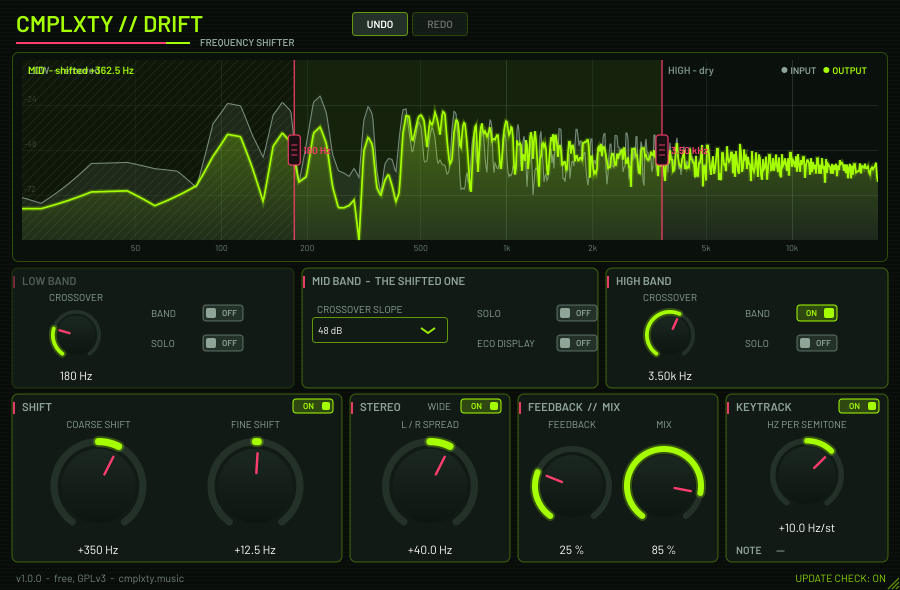
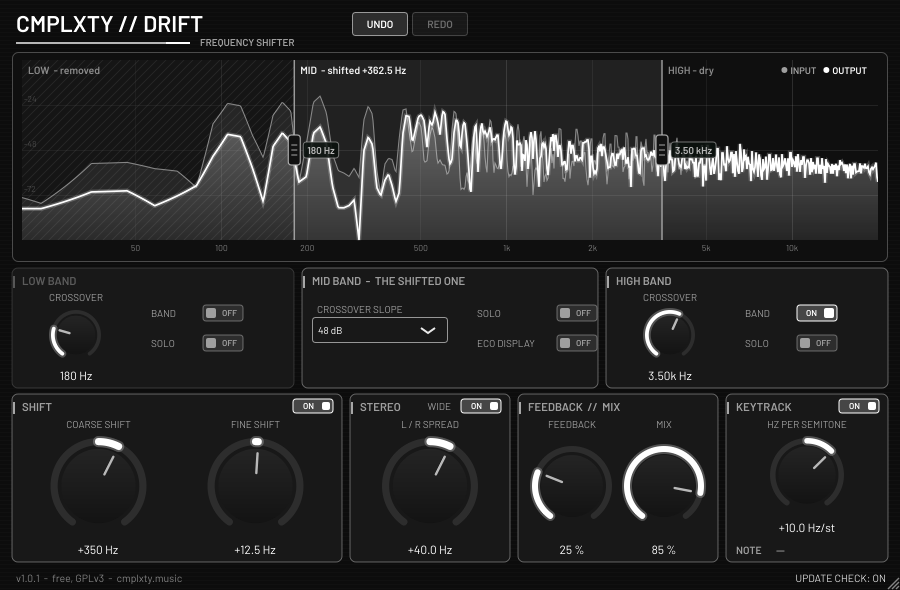
Drift 1.0.1: monochrome UI and spectrum; update check reads version.json's mac block on macOS

diff --git a/drift-shifter/src/PluginEditor.cpp b/drift-shifter/src/PluginEditor.cpp
@@ -3,7 +3,7 @@
 
 namespace
 {
-const juce::Colour kBg (0xff080d0a), kPanel (0xff111a15), kPri (0xffa6ff00), kSec (0xffff3d6e), kDim (0xff8ea597), kTrack (0xff233128);
+const juce::Colour kBg (0xff0c0c0c), kPanel (0xff181818), kPri (0xffffffff), kSec (0xffb8b8b8), kDim (0xff9f9f9f), kTrack (0xff2d2d2d);
 constexpr int kFooterH = 22;
 
 using dfui::uiFont;
@@ -98,7 +98,7 @@ void PopupOverlay::paint (juce::Graphics& g)
 {
     if (! open) return;
     g.setColour (juce::Colours::black.withAlpha (0.35f)); g.fillRoundedRectangle (panel.translated (2, 3).toFloat(), 6.0f);
-    g.setColour (juce::Colour (0xff17231c)); g.fillRoundedRectangle (panel.toFloat(), 6.0f);
+    g.setColour (juce::Colour (0xff202020)); g.fillRoundedRectangle (panel.toFloat(), 6.0f);
     g.setColour (kPri.withAlpha (0.7f)); g.drawRoundedRectangle (panel.toFloat().reduced (0.5f), 6.0f, 1.0f);
     const auto f = uiFont (13.0f);
     for (int i = 0; i < (int) items.size(); ++i)
@@ -169,7 +169,7 @@ void UpdateBanner::show (const df::upd::Info& i)
 void UpdateBanner::paint (juce::Graphics& g)
 {
     auto r = getLocalBounds().toFloat();
-    g.setColour (juce::Colour (0xff17231c)); g.fillRoundedRectangle (r, 6.0f);
+    g.setColour (juce::Colour (0xff202020)); g.fillRoundedRectangle (r, 6.0f);
     g.setColour (kSec.withAlpha (0.85f)); g.drawRoundedRectangle (r.reduced (0.5f), 6.0f, 1.0f);
     g.setColour (kSec); g.fillEllipse (10.0f, r.getCentreY() - 3.0f, 6.0f, 6.0f);
     g.setColour (juce::Colours::white); g.setFont (uiFont (12.0f, true));
@@ -226,7 +226,7 @@ void DriftPanel::Look::drawRotarySlider (juce::Graphics& g, int x, int y, int w,
     const float ring = juce::jmax (3.0f, d * 0.075f), rr = r - ring * 0.5f;
     const float ang = a0 + pos * (a1 - a0);
     // knob body
-    g.setGradientFill (juce::ColourGradient (juce::Colour (0xff1d2b23), c.x, c.y - r, juce::Colour (0xff0c130f), c.x, c.y + r, false));
+    g.setGradientFill (juce::ColourGradient (juce::Colour (0xff272727), c.x, c.y - r, juce::Colour (0xff111111), c.x, c.y + r, false));
     g.fillEllipse (c.x - rr + ring, c.y - rr + ring, (rr - ring) * 2.0f, (rr - ring) * 2.0f);
     // track
     juce::Path track; track.addCentredArc (c.x, c.y, rr, rr, 0.0f, a0, a1, true);
@@ -358,7 +358,7 @@ void SpectrumView::mouseDoubleClick (const juce::MouseEvent& e)
 void SpectrumView::paint (juce::Graphics& g)
 {
     const auto r = getLocalBounds().toFloat();
-    g.setColour (juce::Colour (0xff0a110d)); g.fillRoundedRectangle (r, 6.0f);
+    g.setColour (juce::Colour (0xff0f0f0f)); g.fillRoundedRectangle (r, 6.0f);
     const auto plot = plotArea();
     auto yOf = [&] (float db) { return plot.getBottom() - plot.getHeight() * juce::jlimit (0.0f, 1.0f, (db - kDbBottom) / -kDbBottom); };
 
@@ -447,7 +447,7 @@ void SpectrumView::paint (juce::Graphics& g)
         const bool active = hot == i || drag == i;
         g.setColour (kSec.withAlpha (active ? 1.0f : 0.8f)); g.fillRect (x - 0.75f, plot.getY(), 1.5f, plot.getHeight());
         const auto grip = juce::Rectangle<float> (x - 6.0f, plot.getCentreY() - 15.0f, 12.0f, 30.0f);
-        g.setColour (juce::Colour (0xff1a0f13)); g.fillRoundedRectangle (grip, 3.0f);
+        g.setColour (juce::Colour (0xff121212)); g.fillRoundedRectangle (grip, 3.0f);
         g.setColour (kSec.withAlpha (active ? 1.0f : 0.9f)); g.drawRoundedRectangle (grip, 3.0f, active ? 1.8f : 1.2f);
         for (int k = -1; k <= 1; ++k) g.fillRect (x - 3.0f, grip.getCentreY() + (float) k * 5.0f - 0.5f, 6.0f, 1.0f);
         const float hz = i == 0 ? xoL : xoH;

diff --git a/drift-shifter/test/update_test.cpp b/drift-shifter/test/update_test.cpp
@@ -29,6 +29,17 @@ static void offline()
     // ---- version.json
     Info i;
     const juce::String good = R"j({"version":"1.0.2","url":"https://cmplxty.music/plugins/drift-shifter/","installer":"https://cmplxty.music/plugins/drift-shifter/CMPLXTY-Drift-Setup-1.0.0-win.exe","notes":"Gender fix"})j";
+    { // "mac" block: used only when useMacBlock() (true on macOS), falls back to top level
+        const char* mj = R"j({"version":"1.0.5","url":"https://cmplxty.music/a.exe","mac":{"version":"1.0.6","url":"https://cmplxty.music/a.pkg","installer":"a.pkg","sha256":"00","size":1,"notes":"m"}})j";
+        Info mi; useMacBlock() = false;
+        CHECK (parseInfo (mj, mi) && mi.version == "1.0.5" && mi.url.endsWith (".exe"));
+        useMacBlock() = true;
+        CHECK (parseInfo (mj, mi) && mi.version == "1.0.6" && mi.url.endsWith (".pkg") && mi.installer == "a.pkg" && mi.notes == "m");
+        CHECK (parseInfo (R"j({"version":"1.0.5","url":"https://cmplxty.music/a.exe"})j", mi) && mi.version == "1.0.5");
+        CHECK (parseInfo (R"j({"version":"1.0.5","url":"https://cmplxty.music/a.exe","mac":{"version":""}})j", mi) && mi.version == "1.0.5");
+        CHECK (! parseInfo (R"j({"version":"1.0.5","url":"https://cmplxty.music/a.exe","mac":{"version":"1.0.6","url":"https://evil.example/a.pkg"}})j", mi));
+        useMacBlock() = false;
+    }
     CHECK (parseInfo (good, i) && i.version == "1.0.2" && i.url == "https://cmplxty.music/plugins/drift-shifter/" && i.installer.endsWith ("CMPLXTY-Drift-Setup-1.0.0-win.exe") && i.notes == "Gender fix");
     CHECK (parseInfo (R"j({"version":"1.0.2","url":"https://cmplxty.music/plugins/drift-shifter/"})j", i) && i.installer.isEmpty() && i.notes.isEmpty());
     // the shape the listing publishes: url = direct installer URL, "Update" opens its folder page

diff --git a/drift-shifter/src/UpdateCheck.h b/drift-shifter/src/UpdateCheck.h
@@ -65,15 +65,36 @@ inline juce::String pageForUrl (const juce::String& url)
     return url;
 }
 
+// true on macOS; tests can flip it to exercise the "mac" block on other platforms
+inline bool& useMacBlock()
+{
+   #if JUCE_MAC
+    static bool b = true;
+   #else
+    static bool b = false;
+   #endif
+    return b;
+}
+
 inline bool parseInfo (const juce::String& text, Info& out, bool requireTrustedUrl = true)
 {
     juce::var v;
     if (text.length() > kMaxBytes || ! juce::JSON::parse (text, v).wasOk() || ! v.isObject()) return false;
+    // On macOS a "mac" block { version, url, installer, sha256, size, notes } wins when it has a version and url;
+    // otherwise (and on Windows/Linux) the top-level fields are used.
+    juce::var src = v;
+    if (useMacBlock())
+    {
+        const auto m = v.getProperty ("mac", {});
+        if (m.isObject() && m.getProperty ("version", {}).toString().trim().isNotEmpty()
+                         && m.getProperty ("url", {}).toString().trim().isNotEmpty())
+            src = m;
+    }
     Info i;
-    i.version = v.getProperty ("version", {}).toString().trim();
-    i.url = v.getProperty ("url", {}).toString().trim();
-    i.installer = v.getProperty ("installer", {}).toString().trim();
-    i.notes = v.getProperty ("notes", {}).toString().trim().substring (0, 400);
+    i.version = src.getProperty ("version", {}).toString().trim();
+    i.url = src.getProperty ("url", {}).toString().trim();
+    i.installer = src.getProperty ("installer", {}).toString().trim();
+    i.notes = src.getProperty ("notes", {}).toString().trim().substring (0, 400);
     int dummy[4];
     if (! parseVersion (i.version, dummy)) return false;
     if (requireTrustedUrl && ! isTrustedUrl (i.url)) return false;
